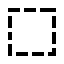
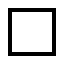
Improve toolbar UI (#98)
- Rename "hand" to "drag"
- Update toolbar icons
- Change tools text
- Change tools order
- Add subtitle for chosen shape
- Remove "spacer" icon
- Change padding
- Change rows size depending on the window width

diff --git a/common/ui-components/editor/src/commonMain/kotlin/io/stardewvalleydesigner/ui/component/editor/screen/sidemenus/Toolbar.kt b/common/ui-components/editor/src/commonMain/kotlin/io/stardewvalleydesigner/ui/component/editor/screen/sidemenus/Toolbar.kt
@@ -18,8 +18,6 @@ package io.stardewvalleydesigner.ui.component.editor.screen.sidemenus
 
 import androidx.compose.foundation.layout.*
 import androidx.compose.material.*
-import androidx.compose.material.icons.Icons
-import androidx.compose.material.icons.filled.Clear
 import androidx.compose.runtime.Composable
 import androidx.compose.ui.Alignment
 import androidx.compose.ui.Modifier
@@ -34,6 +32,8 @@ import io.stardewvalleydesigner.component.editor.EditorIntent
 import io.stardewvalleydesigner.component.editor.modules.toolkit.*
 import io.stardewvalleydesigner.ui.component.editor.res.ImageResourcesProvider
 import io.stardewvalleydesigner.ui.component.settings.GlobalSettings
+import io.stardewvalleydesigner.ui.component.windowsize.LocalWindowSize
+import io.stardewvalleydesigner.ui.component.windowsize.WindowSize
 
 
 @Composable
@@ -44,7 +44,7 @@ internal fun Toolbar(
     val tools = listOf(
         ToolType.Pen,
         ToolType.Eraser,
-        ToolType.Hand,
+        ToolType.Drag,
         ToolType.Select,
         ToolType.EyeDropper,
     ).map { GroupOption.Some(it) }
@@ -56,7 +56,11 @@ internal fun Toolbar(
         }
     }
 
-    val size = 5u
+    val size = when (LocalWindowSize.current) {
+        WindowSize.EXPANDED -> 5u
+        WindowSize.LARGE -> 5u
+        WindowSize.EXTRA_LARGE -> 6u
+    }
 
     val wordList = GlobalSettings.strings
 
@@ -82,13 +86,6 @@ internal fun Toolbar(
         modifier = Modifier.fillMaxWidth(),
         chosenLabel = toolkit.tool,
         onButtonClick = { intentConsumer(EditorIntent.Toolkit.ChooseTool(it)) },
-        spaceContent = {
-            Icon(
-                imageVector = Icons.Default.Clear,
-                contentDescription = null,
-                modifier = Modifier.fillMaxSize().padding(8.dp),
-            )
-        },
         buttonContent = { toolType ->
             ButtonContent(
                 tooltip = wordList.tool(toolType),
@@ -98,7 +95,23 @@ internal fun Toolbar(
     )
 
     if (toolkit.allowedShapes != listOf(null)) {
-        Spacer(modifier = Modifier.height(8.dp))
+        Spacer(modifier = Modifier.height(16.dp))
+
+        Row(
+            modifier = Modifier.fillMaxWidth(),
+            verticalAlignment = Alignment.CenterVertically,
+        ) {
+            Divider(modifier = Modifier.weight(1f))
+            Spacer(modifier = Modifier.width(8.dp))
+            Text(
+                text = wordList.shape(toolkit.shape),
+                style = MaterialTheme.typography.subtitle1
+            )
+            Spacer(modifier = Modifier.width(8.dp))
+            Divider(modifier = Modifier.weight(1f))
+        }
+
+        Spacer(modifier = Modifier.height(16.dp))
 
         ToggleButtonsGroup(
             buttonLabels = shapes,
@@ -106,13 +119,6 @@ internal fun Toolbar(
             modifier = Modifier.fillMaxWidth(),
             chosenLabel = toolkit.shape,
             onButtonClick = { intentConsumer(EditorIntent.Toolkit.ChooseShape(it)) },
-            spaceContent = {
-                Icon(
-                    imageVector = Icons.Default.Clear,
-                    contentDescription = null,
-                    modifier = Modifier.fillMaxSize().padding(8.dp),
-                )
-            },
             buttonContent = { shapeType ->
                 val shapeName = wordList.shape(shapeType)
                 val postfix = if (shapeType !in toolkit.allowedShapes) {
@@ -144,7 +150,7 @@ private fun ButtonContent(tooltip: String, image: ImageBitmap) {
         Icon(
             bitmap = image,
             contentDescription = null,
-            modifier = Modifier.fillMaxSize().padding(8.dp),
+            modifier = Modifier.fillMaxSize().padding(6.dp),
         )
     }
 }

diff --git a/common/components/screen-editor/src/commonMain/kotlin/io/stardewvalleydesigner/component/editor/modules/toolkit/tools/Drag.kt b/common/components/screen-editor/src/commonMain/kotlin/io/stardewvalleydesigner/component/editor/modules/toolkit/tools/Drag.kt
@@ -27,7 +27,7 @@ import io.stardewvalleydesigner.engine.layout.respectsLayout
 import kotlin.properties.Delegates
 
 
-class Hand(private val engine: EditorEngine) : Tool {
+class Drag(private val engine: EditorEngine) : Tool {
 
     private lateinit var initMovedEntities: LayeredEntitiesData
 
@@ -56,7 +56,7 @@ class Hand(private val engine: EditorEngine) : Tool {
 
         return if (heldEntities.flattenSequence().any()) {
             ActionReturn(
-                toolkit = ToolkitState.Hand.Point.Acting(heldEntities),
+                toolkit = ToolkitState.Drag.Point.Acting(heldEntities),
                 currentEntity = currentEntity,
                 selectedEntities = heldEntities
             )
@@ -78,7 +78,7 @@ class Hand(private val engine: EditorEngine) : Tool {
             .layeredData()
 
         return ActionReturn(
-            toolkit = ToolkitState.Hand.Point.Acting(heldEntities),
+            toolkit = ToolkitState.Drag.Point.Acting(heldEntities),
             currentEntity = currentEntity,
             selectedEntities = heldEntities
         )
@@ -91,7 +91,7 @@ class Hand(private val engine: EditorEngine) : Tool {
     ): ActionReturn {
         engine.putAll(heldEntities.toLayeredEntities())
         return ActionReturn(
-            toolkit = ToolkitState.Hand.Point.Idle,
+            toolkit = ToolkitState.Drag.Point.Idle,
             currentEntity = currentEntity,
             selectedEntities = if (isSelected) heldEntities else LayeredEntitiesData()
         )

diff --git a/common/components/screen-editor/src/commonMain/kotlin/io/stardewvalleydesigner/component/editor/modules/toolkit/ToolkitState.kt b/common/components/screen-editor/src/commonMain/kotlin/io/stardewvalleydesigner/component/editor/modules/toolkit/ToolkitState.kt
@@ -37,9 +37,9 @@ sealed class ToolkitState(val tool: ToolType) {
     val allowedShapes: List<ShapeType?> = tool.allowedShapes
 
 
-    sealed class Hand : ToolkitState(tool = ToolType.Hand) {
+    sealed class Drag : ToolkitState(tool = ToolType.Drag) {
 
-        sealed class Point(final override val isIdle: Boolean) : Hand() {
+        sealed class Point(final override val isIdle: Boolean) : Drag() {
 
             data object Idle : Point(isIdle = true)
 
@@ -157,7 +157,7 @@ sealed class ToolkitState(val tool: ToolType) {
             val compatibleShape = if (shape in tool.allowedShapes) shape else tool.allowedShapes.firstOrNull()
 
             return when (tool) {
-                ToolType.Hand -> Hand.Point.Idle
+                ToolType.Drag -> Drag.Point.Idle
                 ToolType.Pen -> compatibleShape?.let(Pen.Shape::Idle) ?: Pen.Point.Idle
                 ToolType.Eraser -> compatibleShape?.let(Eraser.Shape::Idle) ?: Eraser.Point.Idle
                 ToolType.Select -> Select.Shape.Idle(compatibleShape!!)
@@ -167,7 +167,7 @@ sealed class ToolkitState(val tool: ToolType) {
 
         private val ToolType.allowedShapes: List<ShapeType?>
             get() = when (this) {
-                ToolType.Hand -> listOf(null)
+                ToolType.Drag -> listOf(null)
                 ToolType.Pen -> listOf(null) + ShapeType.entries
                 ToolType.Eraser -> listOf(null) + ShapeType.entries
                 ToolType.Select -> ShapeType.entries

diff --git a/common/components/settings/src/commonMain/kotlin/io/stardewvalleydesigner/settings/wordlists/EnWordList.kt b/common/components/settings/src/commonMain/kotlin/io/stardewvalleydesigner/settings/wordlists/EnWordList.kt
@@ -802,11 +802,11 @@ data object EnWordList : WordList {
 
     override fun tool(type: ToolType?): String = when (type) {
         null -> "No tool selected"
-        ToolType.Hand -> "Drag"
-        ToolType.Pen -> "Pen"
-        ToolType.Eraser -> "Eraser"
-        ToolType.Select -> "Select"
-        ToolType.EyeDropper -> "Eye dropper"
+        ToolType.Drag -> "Drag entities"
+        ToolType.Pen -> "Pen (put entities)"
+        ToolType.Eraser -> "Eraser (remove entities)"
+        ToolType.Select -> "Select entities"
+        ToolType.EyeDropper -> "Eye dropper (entity picker)"
     }
 
     override fun shape(type: ShapeType?): String = when (type) {

diff --git a/common/components/screen-editor/src/commonMain/kotlin/io/stardewvalleydesigner/component/editor/modules/toolkit/ToolkitImpl.kt b/common/components/screen-editor/src/commonMain/kotlin/io/stardewvalleydesigner/component/editor/modules/toolkit/ToolkitImpl.kt
@@ -50,7 +50,7 @@ class ToolkitImpl(
     ): ActionReturn? {
         val shapeType = shapeType
         val tool = when (toolType) {
-            ToolType.Hand -> if (shapeType == null) Hand(engine) else undefinedTool()
+            ToolType.Drag -> if (shapeType == null) Drag(engine) else undefinedTool()
             ToolType.Pen -> if (shapeType == null) PenPoint(engine) else PenShape(engine, shapeType)
             ToolType.Eraser -> if (shapeType == null) EraserPoint(engine) else EraserShape(engine, shapeType)
             ToolType.Select -> if (shapeType == null) undefinedTool() else Select(engine, shapeType)

diff --git a/common/ui-components/editor/src/commonMain/kotlin/io/stardewvalleydesigner/ui/component/editor/res/ImageResourcesProvider.kt b/common/ui-components/editor/src/commonMain/kotlin/io/stardewvalleydesigner/ui/component/editor/res/ImageResourcesProvider.kt
@@ -201,7 +201,7 @@ object ImageResourcesProvider {
 
     @Composable
     internal fun toolImages(): Map<ToolType, ImageBitmap> = mapOf(
-        ToolType.Hand to rememberImageResource("tools/hand.png"),
+        ToolType.Drag to rememberImageResource("tools/drag.png"),
         ToolType.Pen to rememberImageResource("tools/pen.png"),
         ToolType.Eraser to rememberImageResource("tools/eraser.png"),
         ToolType.Select to rememberImageResource("tools/select.png"),

diff --git a/common/ui-components/editor/src/commonMain/kotlin/io/stardewvalleydesigner/ui/component/editor/screen/layout/EditorLayout.kt b/common/ui-components/editor/src/commonMain/kotlin/io/stardewvalleydesigner/ui/component/editor/screen/layout/EditorLayout.kt
@@ -223,7 +223,7 @@ private fun DrawScope.drawSpecificSpritesAndEffects(
     }
 
     when (toolkit) {
-        is ToolkitState.Hand.Point.Acting -> {
+        is ToolkitState.Drag.Point.Acting -> {
             val spriteMaps = SpriteUtils.calculateSprite(
                 spriteMaps = entityMaps,
                 entities = toolkit.heldEntities.flatten().sortedWith(placedEntityComparator),

diff --git a/common/components/screen-editor/src/commonMain/kotlin/io/stardewvalleydesigner/component/editor/modules/toolkit/ToolType.kt b/common/components/screen-editor/src/commonMain/kotlin/io/stardewvalleydesigner/component/editor/modules/toolkit/ToolType.kt
@@ -21,8 +21,7 @@ package io.stardewvalleydesigner.component.editor.modules.toolkit
  * Available tool types.
  */
 enum class ToolType {
-
-    Hand,
+    Drag,
     Pen,
     Eraser,
     Select,
